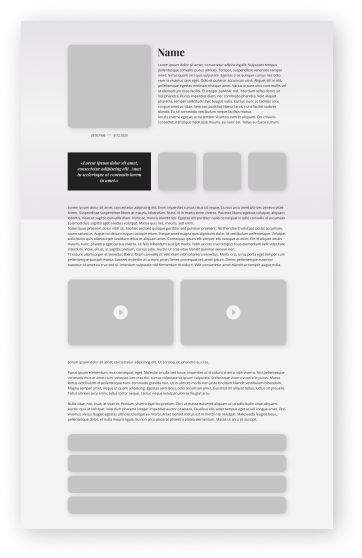
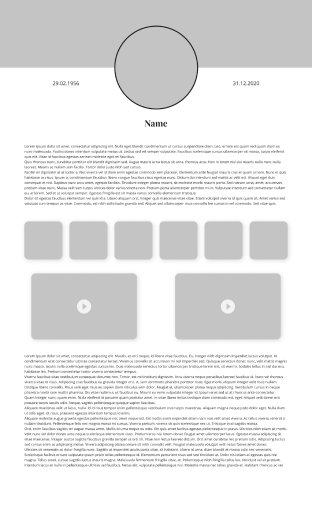
Updatу profile page

diff --git a/src/pages/profiles/style.scss b/src/pages/profiles/style.scss
@@ -22,22 +22,73 @@
   display: flex;
   flex-direction: column;
   grid-row-gap: 20px;
-  padding: 30px 120px 30px;
+  padding: 20px 60px 120px;
+
+  @include for-desktop-up {
+    padding: 30px 120px 120px;
+  }
+
+  @include for-phone-only {
+    padding: 15px 20px 120px;
+  }
 
   &__title {
-    margin: 30px auto 50px;
+    margin: 0 auto 50px;
+
+    @include for-phablet {
+      margin: 0 auto 30px;
+      font-size: 55px !important;
+    }
+
+    @include for-phone-only {
+      font-size: 35px !important;
+    }
   }
 
   &__btn-back {
     position: absolute;
-    top: 80px;
-    right: 120px;
+    top: 50px;
+    right: 80px;
     color: $theme-c-black;
+
+    @include for-desktop-up {
+      right: 120px;
+    }
+
+    @include for-phablet {
+      top: 30px;
+      right: 30px;
+    }
+
+    @include for-phone-only {
+      top: 20px;
+      right: 10px;
+
+      .btn-back__text {
+        display: none;
+      }
+    }
 
     &__icon {
       path {
         fill: $theme-c-black;
       }
+    }
+  }
+
+  .add-image__main {
+    width: 250px;
+    height: 250px;
+
+    @include for-desktop-up {
+      width: 300px;
+      height: 300px;
+    }
+
+    @include for-phone-only {
+      width: 150px;
+      height: 150px;
+      // margin: auto;
     }
   }
 
@@ -49,22 +100,68 @@
   &__row {
     display: flex;
     grid-column-gap: 25px;
+
+    & > * {
+      flex: 1;
+    }
+
+    @include for-phone-only {
+      flex-direction: column;
+    }
   }
 
   &__epitaph {
     height: 250px;
-    // width: 350px;
+    min-width: 200px;
   }
 
   &__date {
+    width: 280px;
+    max-width: 100%;
+
+    @include for-desktop-up {
+      width: 350px;
+    }
+
     &:first-child {
       margin-bottom: 35px;
+
+      @include for-phone-only {
+        margin-top: 10px;
+        margin-bottom: 10px;
+      }
     }
   }
 
   &__media {
     .add-profile__subtitle {
-      
+    }
+  }
+
+  .form-field__description {
+    @include for-phone-only {
+      height: 150px;
+      margin: 10px 0;
+    }
+  }
+
+  &__btn-save {
+    position: fixed;
+    bottom: 30px;
+    left: 50%;
+    transform: translateX(-50%);
+    width: 384px;
+    max-width: 60vw;
+    border-radius: 6px;
+  }
+
+  .select-profile {
+    padding: 15px 0 20px;
+
+    @include for-phablet {
+      .select-profile__item {
+        min-width: 250px;
+      }
     }
   }
 }

diff --git a/src/pages/profiles/profile-edit.page.js b/src/pages/profiles/profile-edit.page.js
@@ -7,6 +7,7 @@ import {
   NameFormGroup,
   ProfileDoubleDescription,
   FormField,
+  Button,
 } from "components/common";
 import {
   AddOtherImages,
@@ -63,7 +64,7 @@ const ProfileEdit = () => {
       <h1 className="header-s-1  profile-edit__title">Редагування</h1>
       <button onClick={goToCabinet} className="btn-back profile-edit__btn-back">
         <ChevronLeftIcon className="btn-back__icon profile-edit__btn-back__icon" />
-        Назад
+        <span className="btn-back__text">Назад</span>
       </button>
 
       <NameFormGroup state={state} onChange={handleChange} />
@@ -122,6 +123,10 @@ const ProfileEdit = () => {
       />
 
       <ProfileTypes label="Тип профілю" />
+
+      <Button type="secondary" className="profile-edit__btn-save">
+        Зберегти
+      </Button>
     </main>
   );
 };

diff --git a/src/components/header/header-dark/header-dark.component.js b/src/components/header/header-dark/header-dark.component.js
@@ -8,13 +8,13 @@ import "./style.scss";
 const HeaderDark = ({ onBackClick }) => {
   return (
     <header className="header-dark">
-       <Link to={routesConstants.HOME}>
-      <LogoIcon className="header-dark__logo" />
+      <Link to={routesConstants.HOME}>
+        <LogoIcon className="header-dark__logo" />
       </Link>
       {onBackClick && (
         <button onClick={onBackClick} className="btn-back header-dark__btn">
           <ChevronLeftIcon className="btn-back__icon" />
-          Назад
+          <span className="btn-back__text">Назад</span>
         </button>
       )}
     </header>

diff --git a/src/components/profiles/add-profile/steps/style.scss b/src/components/profiles/add-profile/steps/style.scss
@@ -6,6 +6,7 @@
   display: flex;
   flex-wrap: wrap;
   justify-content: center;
+  padding: 15px 40px 20px;
 
   &__item {
     cursor: pointer;
@@ -13,7 +14,7 @@
     min-width: 300px;
     max-width: 312px;
     transition: transform 0.2s ease;
-    margin: 10px 10px 0;
+    margin: 10px 20px 0;
     object-fit: contain;
 
     @include no-edge-margins();
@@ -35,10 +36,6 @@
       transform: scale(1.1);
     }
   }
-}
-
-.select-profile.add-profile__content {
-  padding: 0 40px 20px;
 }
 
 .add-profile__main-info {

diff --git a/src/components/common/add-file/style.scss b/src/components/common/add-file/style.scss
@@ -41,7 +41,7 @@
     max-width: 100%;
     min-width: 100px;
     object-fit: contain;
-    margin:auto;
+    margin: auto;
   }
 
   &__add {
@@ -114,6 +114,8 @@
 .add-file-dropzone {
   cursor: pointer;
   &__text {
-
+    @include for-phone-only {
+      font-size: 20px;
+    }
   }
 }

diff --git a/src/components/header/header-dark/style.scss b/src/components/header/header-dark/style.scss
@@ -56,5 +56,9 @@
     @include for-phablet {
       height: 20px;
     }
+
+    @include for-phone-only {
+      margin-right: 10px;
+    }
   }
 }

diff --git a/src/components/common/form-field/style.scss b/src/components/common/form-field/style.scss
@@ -120,6 +120,7 @@
 
   @include for-phone-only {
     flex-direction: column;
+    margin-bottom: 20px;
   }
 
   .form-field {
